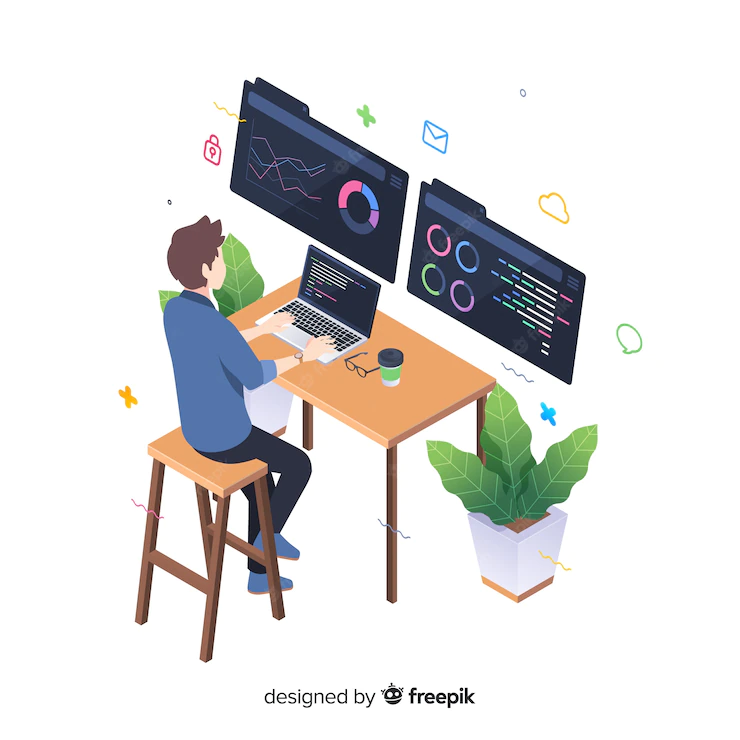
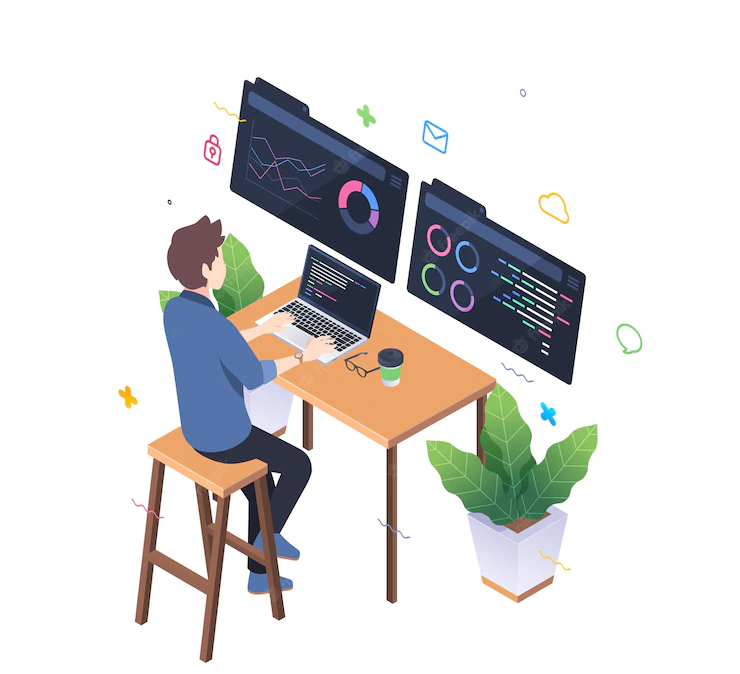
added our offer component

Changed region(s): [[0.1554, 0.0935, 0.8703, 0.997], [0.6838, 0.1246, 0.7149, 0.1558]]

diff --git a/src/app/app.module.ts b/src/app/app.module.ts
@@ -17,6 +17,7 @@ import { UpperNavComponent } from './components/upper-nav/upper-nav.component';
 import { WedoComponent } from './components/wedo/wedo.component';
 import { ChangecardComponent } from './components/changecard/changecard.component';
 import { ConsultButtonComponent } from './components/consult-button/consult-button.component';
+import { OurOfferComponent } from './components/our-offer/our-offer.component';
 
 const appRoutes: Routes = [
   { path: '', component: HomeComponent },
@@ -44,6 +45,7 @@ const appRoutes: Routes = [
     WedoComponent,
     ChangecardComponent,
     ConsultButtonComponent,
+    OurOfferComponent,
   ],
   imports: [
     BrowserModule,

diff --git a/src/app/components/our-offer/our-offer.component.spec.ts b/src/app/components/our-offer/our-offer.component.spec.ts
@@ -1,0 +1,23 @@
+import { ComponentFixture, TestBed } from '@angular/core/testing';
+
+import { OurOfferComponent } from './our-offer.component';
+
+describe('OurOfferComponent', () => {
+  let component: OurOfferComponent;
+  let fixture: ComponentFixture<OurOfferComponent>;
+
+  beforeEach(async () => {
+    await TestBed.configureTestingModule({
+      declarations: [ OurOfferComponent ]
+    })
+    .compileComponents();
+
+    fixture = TestBed.createComponent(OurOfferComponent);
+    component = fixture.componentInstance;
+    fixture.detectChanges();
+  });
+
+  it('should create', () => {
+    expect(component).toBeTruthy();
+  });
+});

diff --git a/src/app/components/our-offer/our-offer.component.html b/src/app/components/our-offer/our-offer.component.html
@@ -1,0 +1,16 @@
+<div class="container is-fullhd">
+  <div class="section is-medium">
+    <div class="columns">
+      <div class="column is-one-half">
+        <app-consult-button></app-consult-button>
+      </div>
+      <div class="column">
+        <figure class="image">
+          <img
+            src="../../../assets/images/programmer-working-isometric-style_52683-16805.webp"
+          />
+        </figure>
+      </div>
+    </div>
+  </div>
+</div>

diff --git a/src/app/components/our-offer/our-offer.component.ts b/src/app/components/our-offer/our-offer.component.ts
@@ -1,0 +1,15 @@
+import { Component, OnInit } from '@angular/core';
+
+@Component({
+  selector: 'app-our-offer',
+  templateUrl: './our-offer.component.html',
+  styleUrls: ['./our-offer.component.css']
+})
+export class OurOfferComponent implements OnInit {
+
+  constructor() { }
+
+  ngOnInit(): void {
+  }
+
+}

diff --git a/src/app/components/changecard/changecard.component.css b/src/app/components/changecard/changecard.component.css
@@ -1,6 +1,5 @@
 .container {
-  margin-top: 10px;
-  margin-bottom: 10px;
+  margin-bottom: 30px;
 }
 
 .content {

diff --git a/src/app/components/home/home.component.html b/src/app/components/home/home.component.html
@@ -1,2 +1,3 @@
 <app-wedo></app-wedo>
 <app-changecard></app-changecard>
+<app-our-offer></app-our-offer>

diff --git a/src/app/components/our-offer/our-offer.component.css b/src/app/components/our-offer/our-offer.component.css
@@ -1,0 +1,3 @@
+* {
+  background-color: #ffffff;
+}
